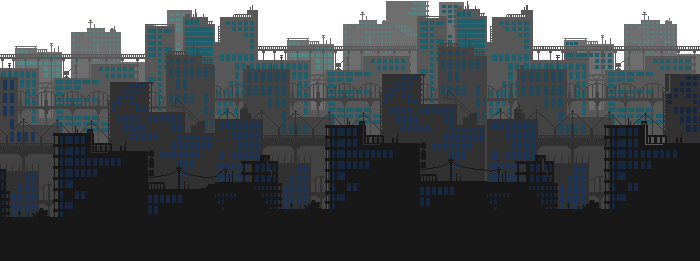
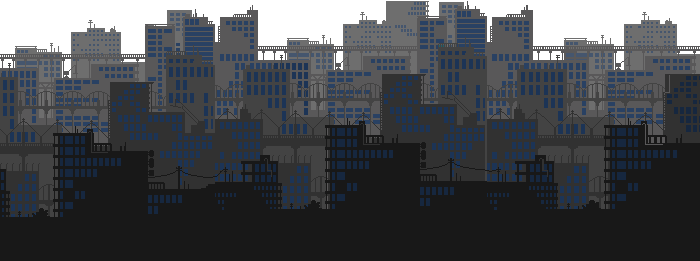
changed night skyline to updated image and fixed media queries for header/contact bg image

diff --git a/styles/style.css b/styles/style.css
@@ -703,7 +703,7 @@ header .headerContainer.flexContainer {
 header .headerContent {
   position: relative;
   z-index: 10;
-  padding-bottom: 250px;
+  margin-bottom: 280px;
 }
 header .headerContent h1 {
   margin-bottom: 70px;
@@ -787,11 +787,11 @@ header .headerContent .arrowWidthContainer {
 
 .skylineBackground {
   width: 100%;
-  height: 350px;
+  height: 240px;
   background-size: contain;
   position: absolute;
   bottom: 0;
-  background-image: url("../assets/nightskyThree.png");
+  background-image: url("../assets/nightSky.png");
   background-repeat: repeat-x;
   background-position: 0% 100%;
 }
@@ -1367,11 +1367,11 @@ header .headerContent .arrowWidthContainer {
 }
 
 .skylineBackgroundTwoMorning {
-  background-image: url("../assets/nightSkyThree.png");
-  height: 350px;
+  background-image: url("../assets/nightSky.png");
+  height: 240px;
   -webkit-filter: brightness(100%);
           filter: brightness(100%);
-  margin: 0;
+  margin-bottom: 75px;
 }
 
 .contactContentMorning {
@@ -1437,6 +1437,7 @@ footer .heart {
 footer .pixelImageContainer {
   width: 50px;
   height: 50px;
+  margin-left: 15px;
 }
 footer .pixelImageContainer img {
   width: 100%;
@@ -1560,13 +1561,11 @@ footer .pixelImageContainer img {
   .wrapper {
     width: 80%;
   }
-
   .cloudImageContainer,
 .cloudImageContainerTwo {
     -webkit-animation: cloudAnimation linear 300s;
             animation: cloudAnimation linear 300s;
   }
-
   .aboutSection .flexContainer {
     -webkit-box-orient: vertical;
     -webkit-box-direction: normal;
@@ -1595,7 +1594,6 @@ footer .pixelImageContainer img {
   .aboutSection ul li {
     margin: 10px 0;
   }
-
   .myProjects .project {
     -webkit-box-orient: vertical;
     -webkit-box-direction: normal;
@@ -1627,7 +1625,6 @@ footer .pixelImageContainer img {
     margin-bottom: 15px;
     text-align: center;
   }
-
   .contact h2 {
     text-align: center;
   }
@@ -1669,7 +1666,6 @@ footer .pixelImageContainer img {
     -webkit-animation: cloudAnimation linear 260s;
             animation: cloudAnimation linear 260s;
   }
-
   .aboutSection .aboutContent {
     -webkit-box-orient: vertical;
     -webkit-box-direction: normal;
@@ -1689,11 +1685,9 @@ footer .pixelImageContainer img {
   .aboutSection .fossilTwoContainer {
     top: 25%;
   }
-
   .myProjects .projectImageContainer {
     width: 85%;
   }
-
   .skillsSection .skillsText p {
     text-align: center;
   }
@@ -1711,25 +1705,21 @@ footer .pixelImageContainer img {
   .wrapper {
     width: 90%;
   }
-
   .logoContainer p {
     font-size: 1rem;
     margin-left: 15px;
   }
-
   header .headerContent {
-    padding-bottom: 200px;
+    margin-bottom: 210px;
   }
   header .headerContent .arrowImageContainer {
     margin: 10px auto 0px auto;
   }
-
   .cloudImageContainer,
 .cloudImageContainerTwo {
     -webkit-animation: cloudAnimation linear 200s;
             animation: cloudAnimation linear 200s;
   }
-
   .timeIconContainer {
     -webkit-box-pack: space-evenly;
         -ms-flex-pack: space-evenly;
@@ -1740,12 +1730,10 @@ footer .pixelImageContainer img {
   .timeIconContainer .sunIcon {
     margin-right: 10px;
   }
-
   .aboutSection .fossilTwoContainer {
     top: 20%;
     right: 0%;
   }
-
   .skillsSection .skillsIcons {
     -webkit-box-pack: justify;
         -ms-flex-pack: justify;
@@ -1761,11 +1749,9 @@ footer .pixelImageContainer img {
   .skillsSection .skillsIcons .skill p {
     font-size: 1.2rem;
   }
-
   .contact .overallContactContainer .contactInfo {
     text-align: center;
   }
-
   .formContent {
     margin-top: 100px;
   }
@@ -1775,7 +1761,6 @@ footer .pixelImageContainer img {
   .formContent h2 {
     font-size: 1rem;
   }
-
   .formSubmission .formSubmitted .formContent h1 {
     margin-bottom: 35px;
   }

diff --git a/styles/sass/partials/_header.scss b/styles/sass/partials/_header.scss
@@ -11,7 +11,7 @@ header {
     .headerContent {
         position: relative;
         z-index: 10;
-        padding-bottom: 250px;
+        margin-bottom: 280px;
 
         h1 {
             margin-bottom: 70px;
@@ -92,11 +92,11 @@ header {
 
 .skylineBackground {
     width: 100%;
-    height: 350px;
+    height: 240px;
     background-size: contain;
     position: absolute;
     bottom: 0;
-    background-image: url("../assets/nightskyThree.png");
+    background-image: url("../assets/nightSky.png");
     background-repeat: repeat-x;
     background-position: 0% 100%;
 }

diff --git a/styles/sass/partials/_contact.scss b/styles/sass/partials/_contact.scss
@@ -124,10 +124,10 @@
 }
 
 .skylineBackgroundTwoMorning {
-    background-image: url('../assets/nightSkyThree.png');
-    height: 350px;
+    background-image: url('../assets/nightSky.png');
+    height: 240px;
     filter: brightness(100%);
-    margin: 0;
+    margin-bottom: 75px;
 }
 
 .contactContentMorning {

diff --git a/styles/sass/partials/_mediaQueries.scss b/styles/sass/partials/_mediaQueries.scss
@@ -187,7 +187,7 @@
     //Header 
 
     header .headerContent {
-        padding-bottom: 200px;
+        margin-bottom: 210px;
 
         .arrowImageContainer {
             margin: 10px auto 0px auto

diff --git a/styles/sass/partials/_footer.scss b/styles/sass/partials/_footer.scss
@@ -22,6 +22,7 @@ footer {
     .pixelImageContainer {
         width: 50px;
         height: 50px;
+        margin-left: 15px;
 
         img {
             width: 100%;
